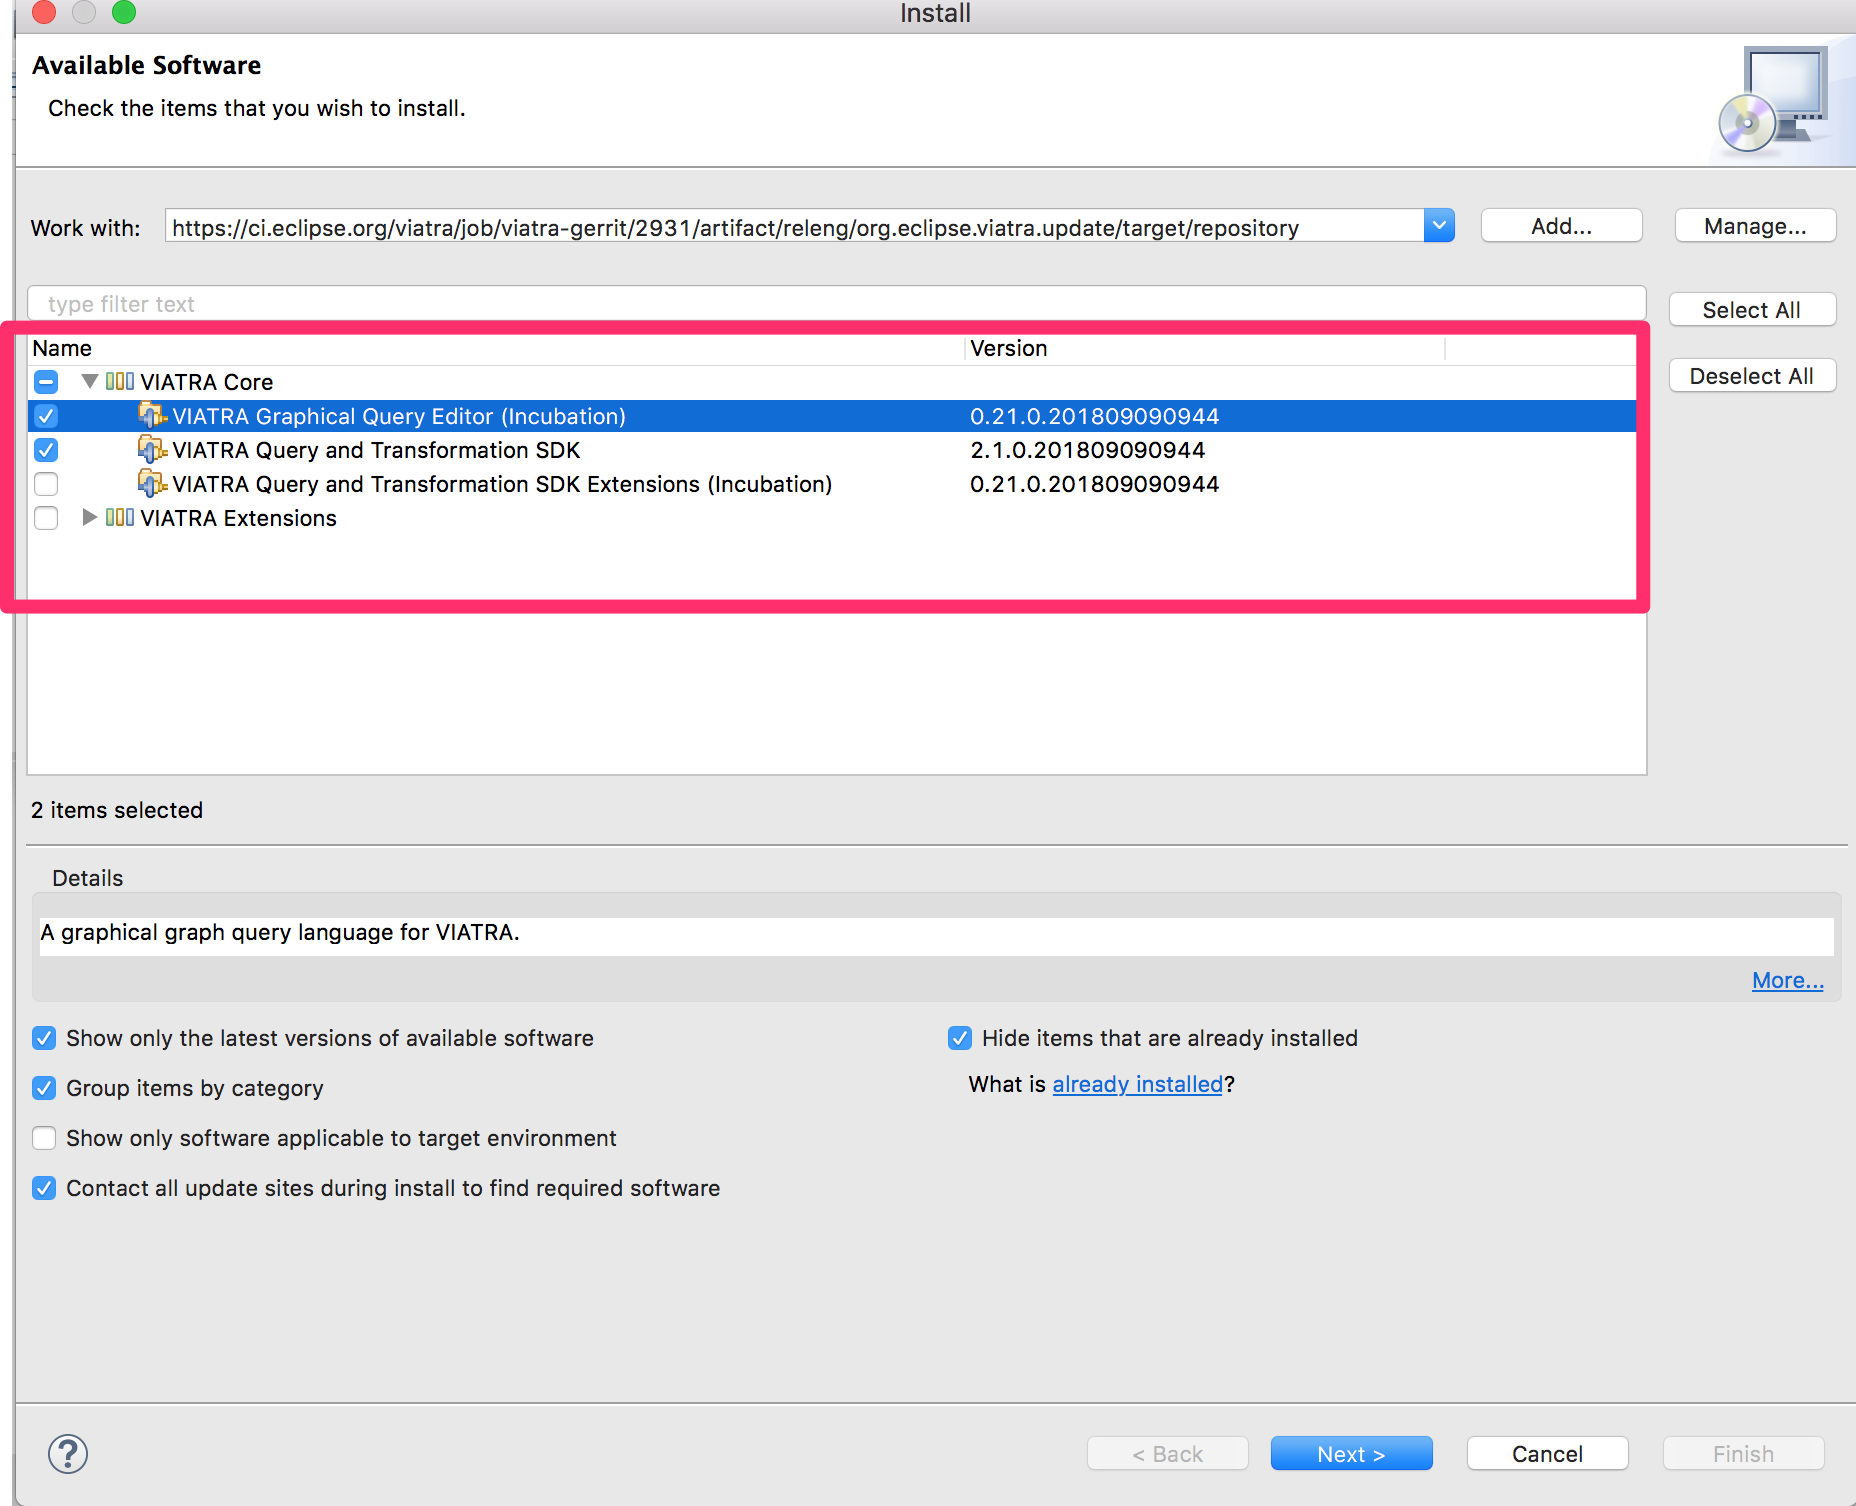
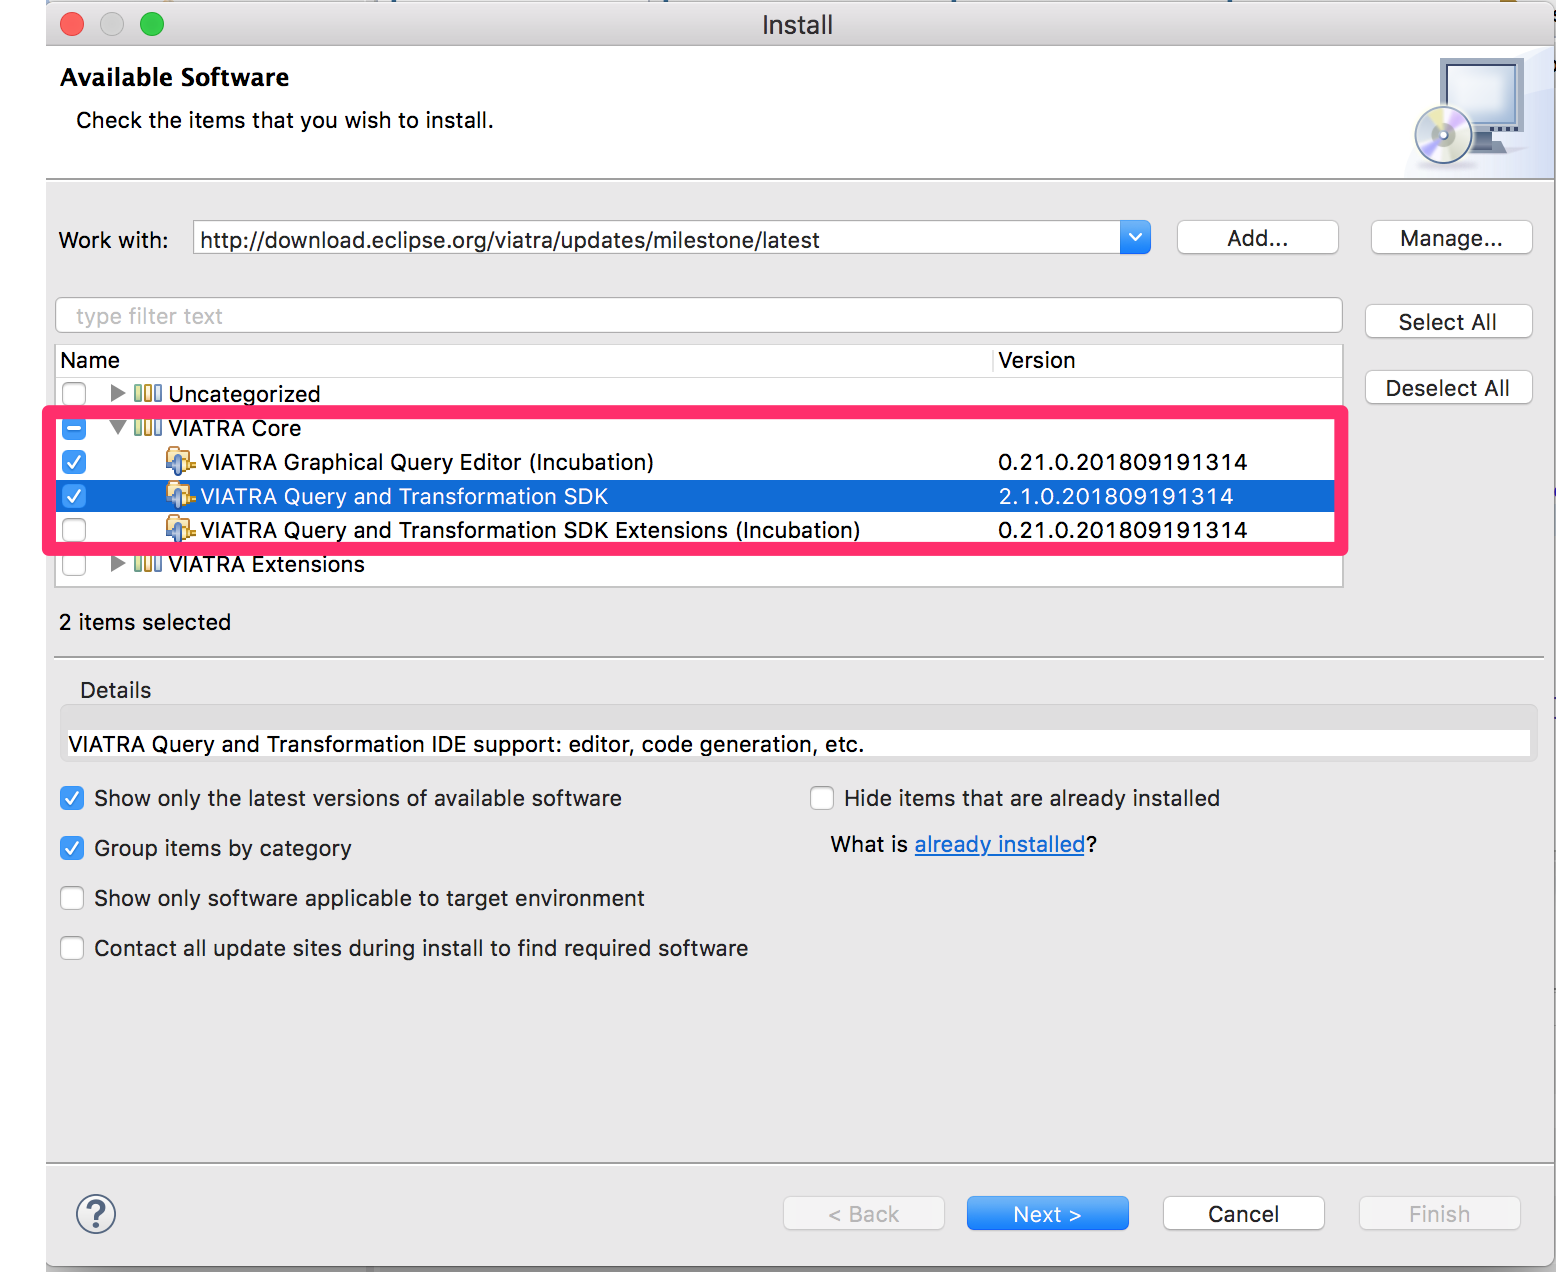
Updates query query editor documentation

diff --git a/documentation/graphical-queries.html b/documentation/graphical-queries.html
@@ -65,7 +65,7 @@ The section is based on the version available at the early September 2018. Given
 <h2 id="_requirements_and_installation">Requirements and Installation</h2>
 <div class="sectionbody">
 <div class="paragraph">
-<p>The current version of the editor is based on Sirius 6.0 (and thus transitively requires Eclipse Oxygen as well). Furthermore, it requires a current version of VIATRA 2.1 IDE installed as well (more precisely, it requires a 2.1 build newer than 09 September, 2018).</p>
+<p>The current version of the editor is based on Sirius 6.0 (and thus transitively requires Eclipse Oxygen as well). Furthermore, it requires a current version of VIATRA 2.1 IDE installed as well (more precisely, the 2.1.0.M2 is the recommended starting point). To download that version, use the following p2 repository: <code><a href="http://download.eclipse.org/viatra/updates/milestone/latest" class="bare">http://download.eclipse.org/viatra/updates/milestone/latest</a></code></p>
 </div>
 <div class="paragraph">
 <p><span class="image"><img src="images/tools/vgql_install.png" alt="vgql install" height="300"></span></p>
@@ -173,9 +173,6 @@ In the first prototype, in addition to adding the declaration, required plug-in 
 </li>
 </ol>
 </div>
-<div class="paragraph">
-<p>To ensure all required elements are filled out, live validation rules are available. In the first prototype these validation rules are not started by default, but can be initialized by right clicking the pattern editor, and selecting <code>VIATRA Validation</code>/<code>Initialize VIATRA Validators on Editor</code>.</p>
-</div>
 </div>
 <div class="sect2">
 <h3 id="_evaluating_query_results">Evaluating Query Results</h3>
@@ -209,26 +206,7 @@ This integration assumes that the <code>vql</code> file is generated, so it requ
 <h2 id="_missing_feature_and_known_issues">Missing Feature and Known Issues</h2>
 <div class="sectionbody">
 <div class="paragraph">
-<p>In the early prototype available now there are a few known issues. It is planned that these will be addressed before VIATRA 2.1 is released.</p>
-</div>
-<div class="ulist">
-<ul>
-<li>
-<p>When adding a metamodel, the Eclipse bundle providing the generated code for that metamodel is not added to the bundle, but has to be added manually using the plug-in manifest editor. Without the corresponding dependency added, the generated <code>vgl</code> files will be erroneous.</p>
-</li>
-<li>
-<p>Validation does not start automatically. To start validation, right click on an opened diagram, and select <code>VIATRA Validation</code>/<code>Initialize VIATRA Validators on Editor</code>.</p>
-</li>
-<li>
-<p>Currently assigning documentation to the patterns is not supported.</p>
-</li>
-<li>
-<p>There is no support in automatically updating an existing VIATRA Query project to a Graphical Query project.</p>
-</li>
-<li>
-<p>When creating a second graphical query file in a project with the wizard, only the <code>vgql</code> file is created, but the diagram is not. To create the second diagram, the <code>aird</code> editor provided by Sirius can be used instead.</p>
-</li>
-</ul>
+<p>In the early prototype available in VIATRA 2.1.0 2 there are a few known issues that are planned to be addressed before the final VIATRA 2.1 is released in December 2012. These issues are maintained in <a href="https://bugs.eclipse.org/bugs/buglist.cgi?list_id=17930299&amp;product=Viatra&amp;query_format=advanced&amp;status_whiteboard=vgql-editor&amp;status_whiteboard_type=allwordssubstr">Bugzilla</a>.</p>
 </div>
 </div>
 </div>

diff --git a/documentation/index.html b/documentation/index.html
@@ -52,6 +52,7 @@
             <ul>
                 <li><a href="query-language.html">The VIATRA Query Language (VQL)</a></li>
 				<li><a href="query-api.html">The runtime API of VIATRA Query</a></li>
+				<li><a href="graphical-queries.html">Graphical Query editor (since v2.1)</a></li>
 				<li><a href="query-tools.html">Tools for query development (testing, compiling)</a></li>
             </ul>
 		</div>
